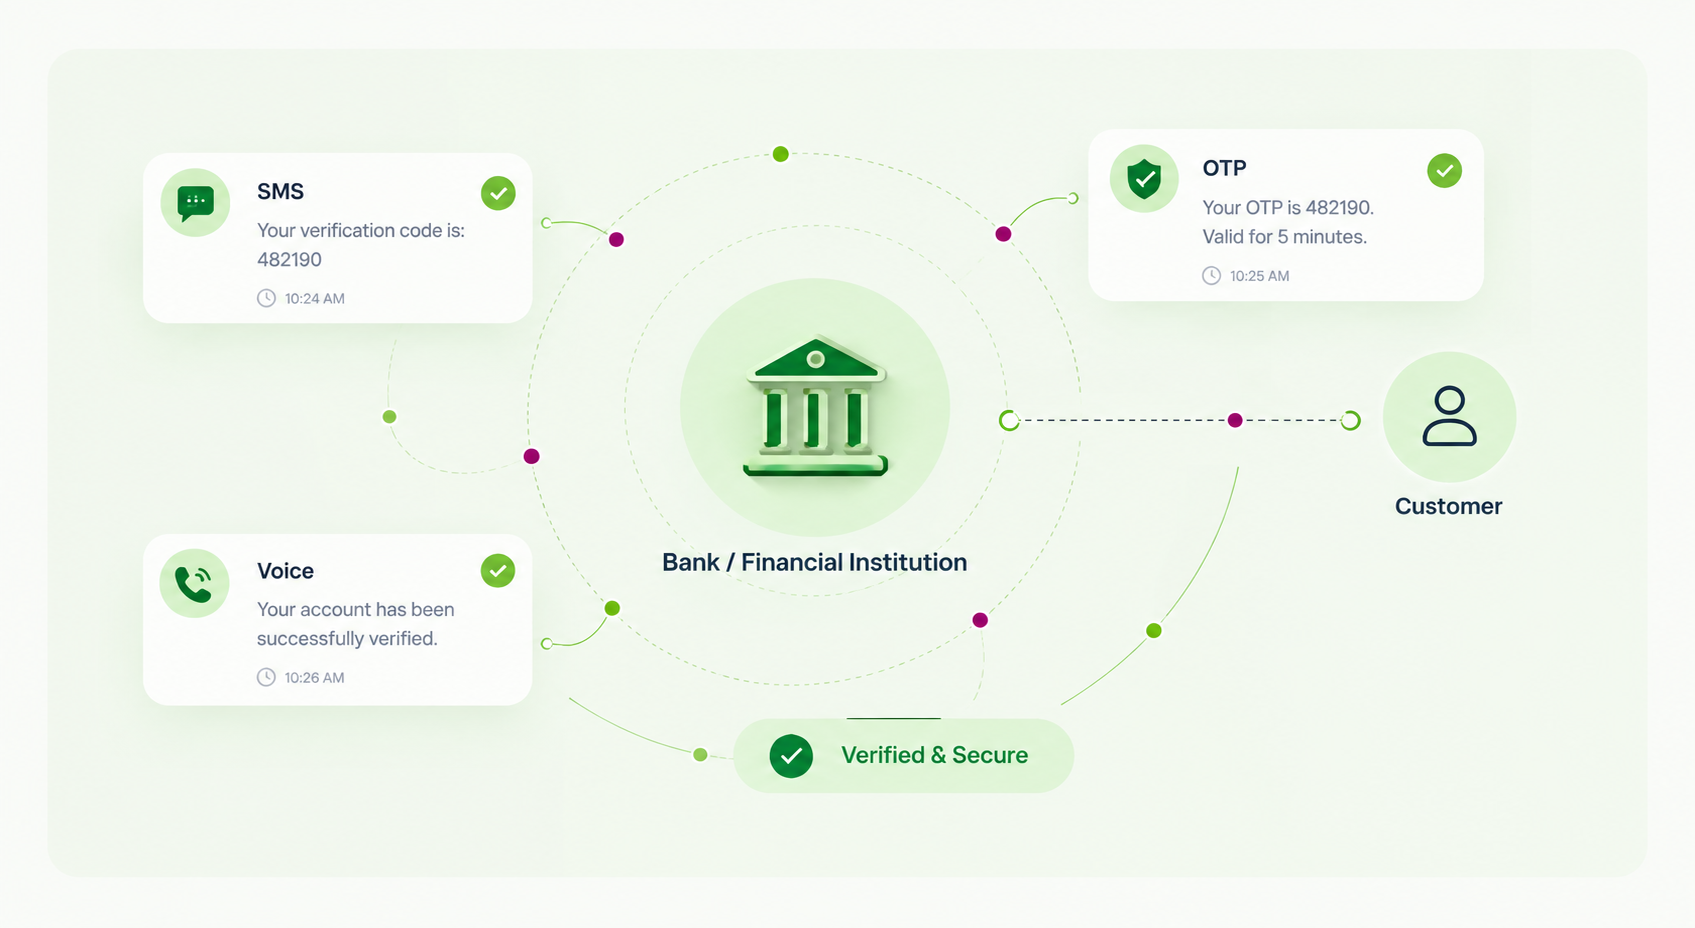
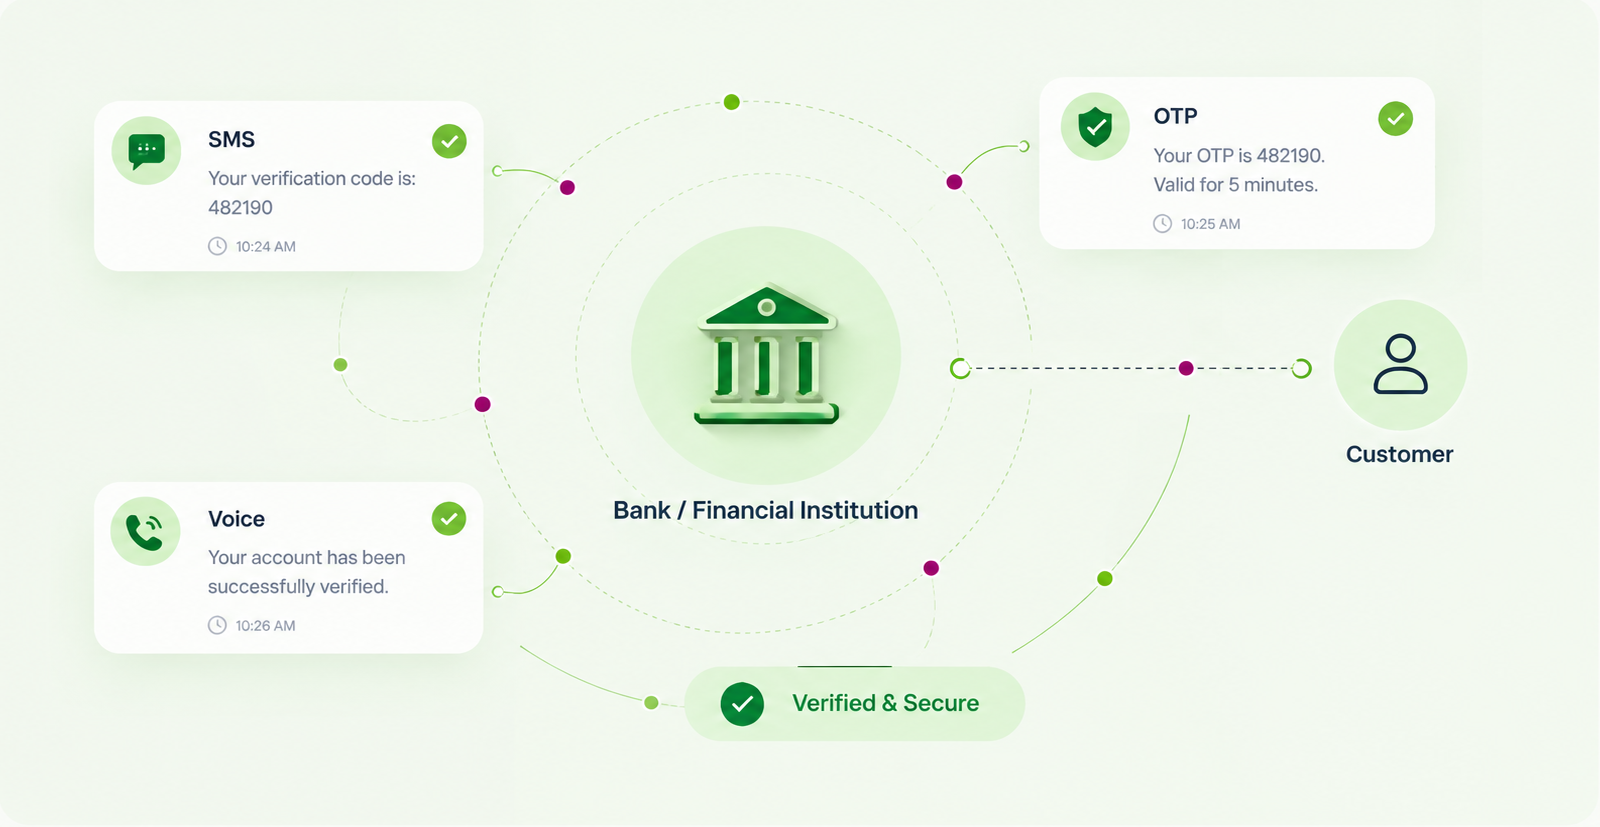
Home is Done

diff --git a/src/components/IndustryExpertise.tsx b/src/components/IndustryExpertise.tsx
@@ -1,7 +1,7 @@
 import React, { useState } from "react";
 import {
   Building2,
-  HeartPulse,
+  BriefcaseMedical,
   ShoppingCart,
   GraduationCap,
   Compass,
@@ -16,10 +16,10 @@ import travelImg from "../assets/travel.png";
 
 interface IndustryItem {
   id: string;
-  name: string;
+  name: string; // tab label
   icon: React.ReactNode;
   image: string;
-  title: string;
+  title: string; // card heading
   description: string;
 }
 
@@ -27,25 +27,25 @@ const industries: IndustryItem[] = [
   {
     id: "banking",
     name: "Banking",
-    icon: <Building2 className="w-5 h-5" />,
+    icon: <Building2 className="w-[22px] h-[22px]" strokeWidth={1.75} />,
     image: financialImg,
-    title: "Banking & Financial Services",
+    title: "Banking and Financial Services",
     description:
-      "Utilize Tier-1 SMS and Voice infrastructure for high-security OTP authentication, real-time transaction alerts, and fraud prevention.",
+      "Utilize Transactional SMS and OTP SMS Service solutions for secure customer authentication, payment alerts, and account notifications.",
   },
   {
     id: "healthcare",
     name: "Healthcare",
-    icon: <HeartPulse className="w-5 h-5" />,
+    icon: <BriefcaseMedical className="w-[22px] h-[22px]" strokeWidth={1.75} />,
     image: healthcareImg,
-    title: "Healthcare Communications",
+    title: "Healthcare",
     description:
       "Send critical patient appointment reminders, prescription updates, and healthcare notifications with enterprise reliability.",
   },
   {
     id: "ecommerce",
     name: "E-Commerce and Retail",
-    icon: <ShoppingCart className="w-5 h-5" />,
+    icon: <ShoppingCart className="w-[22px] h-[22px]" strokeWidth={1.75} />,
     image: ecommerceImg,
     title: "E-Commerce and Retail",
     description:
@@ -54,16 +54,16 @@ const industries: IndustryItem[] = [
   {
     id: "education",
     name: "Education",
-    icon: <GraduationCap className="w-5 h-5" />,
+    icon: <GraduationCap className="w-[22px] h-[22px]" strokeWidth={1.75} />,
     image: educationImg,
-    title: "Education & Learning",
+    title: "Education",
     description:
       "Keep students and parents informed with admission alerts, campus updates, attendance notices, and exam results across channels.",
   },
   {
     id: "travel",
     name: "Travel and Hospitality",
-    icon: <Compass className="w-5 h-5" />,
+    icon: <Compass className="w-[22px] h-[22px]" strokeWidth={1.75} />,
     image: travelImg,
     title: "Travel and Hospitality",
     description:
@@ -71,54 +71,66 @@ const industries: IndustryItem[] = [
   },
 ];
 
-export const IndustryExpertise: React.FC = () => {
-  const [activeId, setActiveId] = useState<string>("ecommerce");
+/**
+ * Deck geometry (by distance from the active card).
+ * Same width for all cards; back cards are shorter and shifted sideways,
+ * so they peek out from both sides of the centre card.
+ */
+const LEVELS = [
+  { x: 0, h: 575, overlay: 0, z: 30 }, // active
+  { x: 108, h: 435, overlay: 0.14, z: 20 }, // 1 step away
+  { x: 180, h: 318, overlay: 0.24, z: 10 }, // 2 steps away
+];
 
+export const IndustryExpertise: React.FC = () => {
+  const [activeId, setActiveId] = useState<string>("banking");
+
+  const n = industries.length;
   const activeIndex = industries.findIndex((item) => item.id === activeId);
-  const activeIndustry = industries[activeIndex] || industries[2];
+
+  // circular offset in range -2..2
+  const getOffset = (idx: number) => ((idx - activeIndex + n + 2) % n) - 2;
 
   return (
-    <section className="w-full bg-white py-16 lg:py-24 px-2 sm:px-4">
-      <div className="max-w-[1440px] mx-auto space-y-10 lg:space-y-14">
-        
+    <section className="w-full bg-white py-14 lg:py-20 px-2 sm:px-4 overflow-hidden">
+      <div className="max-w-[1440px] mx-auto space-y-12 lg:space-y-16">
         {/* Section Header */}
         <div className="max-w-3xl space-y-3">
           <div className="flex items-center gap-2">
-            <span className="w-5 h-[2px] bg-[#698a22]"></span>
-            <span className="text-[12px] sm:text-[13px] font-bold tracking-wider text-[#698a22] uppercase">
-              INDUSTRY EXPERTISE
+            <span className="w-5 h-[1.5px] bg-[#5f8a1a]" />
+            <span className="text-[12.5px] font-semibold tracking-wide text-[#5f8a1a] uppercase">
+              Industry Expertise
             </span>
           </div>
 
-          <h2 className="text-3xl sm:text-4xl lg:text-[42px] font-bold text-[#102038] tracking-tight leading-[1.15]">
+          <h2 className="text-[30px] sm:text-[36px] lg:text-[38px] font-bold text-[#12223b] tracking-tight leading-[1.2]">
             Communication Solutions Built <br className="hidden sm:inline" />
             For Every Industry
           </h2>
 
-          <p className="text-[15px] sm:text-[16px] text-[#556578] leading-relaxed max-w-2xl">
+          <p className="text-[15px] sm:text-[17px] text-[#5b6878] leading-relaxed max-w-[520px]">
             Connect, engage and communicate with customers through reliable
             voice, messaging and omnichannel solutions.
           </p>
         </div>
 
-        {/* 2-Column Grid Layout */}
-        <div className="grid grid-cols-1 lg:grid-cols-12 gap-8 lg:gap-12 items-center">
-          
-          {/* Left Column: Industry Tabs (5 cols) */}
-          <div className="lg:col-span-4 space-y-3">
+        {/* 2-Column Layout */}
+        <div className="grid grid-cols-1 lg:grid-cols-[380px_1fr] gap-10 lg:gap-14 items-center">
+          {/* Left: Large Tabs */}
+          <div className="flex flex-col gap-4 lg:gap-5 w-full lg:w-[380px]">
             {industries.map((item) => {
               const isActive = item.id === activeId;
               return (
                 <button
                   key={item.id}
                   onClick={() => setActiveId(item.id)}
-                  className={`w-full flex items-center justify-between px-6 py-4 rounded-full text-[15px] font-medium transition-all duration-200 cursor-pointer ${
+                  className={`w-full flex items-center justify-between pl-7 pr-6 h-[58px] sm:h-[62px] rounded-full text-[16.5px] sm:text-[17.5px] font-medium transition-all duration-200 cursor-pointer border ${
                     isActive
-                      ? "bg-[#102038] text-white ring-1.5 ring-[#739b20] shadow-lg shadow-slate-900/10"
-                      : "bg-white text-[#1e2d42] border border-[#e2e8df] hover:bg-[#f6faf4] hover:border-[#ccd9c7]"
+                      ? "bg-[#102038] text-white border-[#739b20] ring-1.5 ring-[#739b20] shadow-md shadow-slate-900/10"
+                      : "bg-white text-[#1e2d42] border-[#d3d9de] hover:border-[#b6c2b0] hover:bg-[#f7faf5]"
                   }`}
                 >
-                  <div className="flex items-center gap-3.5">
+                  <div className="flex items-center gap-4">
                     <span
                       className={isActive ? "text-[#84cc16]" : "text-slate-500"}
                     >
@@ -127,9 +139,9 @@ export const IndustryExpertise: React.FC = () => {
                     <span>{item.name}</span>
                   </div>
                   <ChevronRight
-                    className={`w-4 h-4 transition-transform ${
+                    className={`w-5 h-5 transition-transform ${
                       isActive
-                        ? "text-[#84cc16] translate-x-1"
+                        ? "text-[#84cc16] translate-x-0.5"
                         : "text-slate-400"
                     }`}
                   />
@@ -138,89 +150,76 @@ export const IndustryExpertise: React.FC = () => {
             })}
           </div>
 
-          {/* Right Column: Layered Stacked 3D Cards Showcase (8 cols) */}
-          <div className="lg:col-span-8 relative flex items-center justify-center min-h-[460px] lg:min-h-[520px] overflow-hidden py-4">
-            
-            {/* Background stack layer cards for visual depth */}
-            <div className="absolute inset-0 flex items-center justify-center pointer-events-none">
-              {industries.map((item, idx) => {
-                const offset = idx - activeIndex;
-                if (offset === 0) return null; // Front card rendered separately
+          {/* Right: Card deck */}
+          <div className="relative flex items-center justify-center h-[590px] lg:h-[620px] select-none">
+            {industries.map((item, idx) => {
+              const offset = getOffset(idx);
+              const dist = Math.abs(offset);
+              const level = LEVELS[dist];
+              const isCenter = dist === 0;
+              const dir = offset < 0 ? -1 : 1;
 
-                // Calculate horizontal translate and scale for the stack
-                const translateX = offset * 110;
-                const scale = 0.9 - Math.abs(offset) * 0.05;
-                const opacity = 0.45 - Math.abs(offset) * 0.12;
-                const zIndex = 10 - Math.abs(offset);
+              return (
+                <div
+                  key={item.id}
+                  onClick={() => setActiveId(item.id)}
+                  style={
+                    {
+                      transform: `translateX(${dir * level.x}px)`,
+                      zIndex: level.z,
+                      ["--h" as string]: `${level.h}px`,
+                      ["--ih" as string]: "57%",
+                    } as React.CSSProperties
+                  }
+                  className={`absolute w-[min(570px,100%)] h-auto md:h-[var(--h)] rounded-[30px] overflow-hidden bg-white flex flex-col transition-all duration-500 ease-out cursor-pointer ${
+                    isCenter
+                      ? "block shadow-[0_20px_60px_-10px_rgba(15,23,42,0.25)] border border-gray-100"
+                      : "hidden md:flex border border-slate-200/70"
+                  }`}
+                >
+                  {/* Illustration */}
+                  <div className="w-full shrink-0 h-[255px] md:h-[var(--ih)] bg-gradient-to-b bg-[#66dd0b] overflow-hidden flex items-center justify-center">
+                    <img
+                      src={item.image}
+                      alt={item.title}
+                      draggable={false}
+                      className="w-full h-full object-fill object-center"
+                    />
+                  </div>
 
-                if (Math.abs(offset) > 2) return null;
+                  {/* Text + CTA */}
+                  <div className="bg-white flex-1 px-8 pt-7 pb-8 text-center space-y-3.5 overflow-hidden flex flex-col justify-center">
+                    <h3 className="text-[25px] md:text-[29px] font-semibold text-[#12223b] tracking-tight leading-tight">
+                      {item.title}
+                    </h3>
 
-                return (
-                  <div
-                    key={item.id}
-                    style={{
-                      transform: `translateX(${translateX}px) scale(${scale})`,
-                      opacity: opacity > 0 ? opacity : 0,
-                      zIndex,
-                    }}
-                    className="absolute w-full max-w-[380px] sm:max-w-[420px] bg-white rounded-[32px] border border-slate-200/80 shadow-md p-6 pointer-events-none transition-all duration-500 blur-[0.5px]"
-                  >
-                    <div className="aspect-[4/3] rounded-2xl overflow-hidden bg-[#eef5eb]">
-                      <img
-                        src={item.image}
-                        alt={item.name}
-                        className="w-full h-full object-contain p-2 opacity-80"
-                      />
-                    </div>
-                    <div className="pt-4 text-center">
-                      <h4 className="font-bold text-slate-800 text-lg">
-                        {item.title}
-                      </h4>
+                    <p className="text-[15px] md:text-[16px] text-[#5b6878] leading-[1.55] max-w-[460px] mx-auto">
+                      {item.description}
+                    </p>
+
+                    <div className="pt-2">
+                      <a
+                        href="#contact"
+                        onClick={(e) => {
+                          if (!isCenter) e.preventDefault();
+                        }}
+                        className="inline-flex items-center justify-center px-14 py-3 rounded-full text-[15.5px] font-medium text-white bg-[#8b1a5e] hover:bg-[#751450] shadow-md shadow-[#8b1a5e]/25 transition duration-150 active:scale-[0.98]"
+                      >
+                        Contact Us
+                      </a>
                     </div>
                   </div>
-                );
-              })}
-            </div>
 
-            {/* Active Front Card */}
-            <div className="relative z-20 w-full max-w-[440px] sm:max-w-[500px] bg-white rounded-[32px] border border-gray-100 shadow-2xl shadow-slate-200/70 p-6 sm:p-8 space-y-6 text-center transition-all duration-300">
-              
-              {/* Card Illustration Area */}
-              <div className="aspect-[16/11] rounded-2xl overflow-hidden bg-[#eff4eb] flex items-center justify-center p-3 border border-[#e2ebdE]">
-                <img
-                  src={activeIndustry.image}
-                  alt={activeIndustry.title}
-                  className="w-full h-full object-contain drop-shadow-sm transition-all duration-300"
-                />
-              </div>
-
-              {/* Card Text Content */}
-              <div className="space-y-3 px-2">
-                <h3 className="text-2xl sm:text-[26px] font-bold text-[#102038] tracking-tight">
-                  {activeIndustry.title}
-                </h3>
-
-                <p className="text-[14px] sm:text-[15px] text-[#556578] leading-relaxed max-w-md mx-auto">
-                  {activeIndustry.description}
-                </p>
-              </div>
-
-              {/* Contact Us CTA Button */}
-              <div className="pt-2">
-                <a
-                  href="#contact"
-                  className="inline-flex items-center justify-center px-8 py-3 rounded-full bg-[#83184d] hover:bg-[#701240] text-white text-[15px] font-medium transition duration-150 shadow-md shadow-[#83184d]/25 active:scale-[0.98]"
-                >
-                  Contact Us
-                </a>
-              </div>
-
-            </div>
-
+                  {/* Grey overlay for back cards */}
+                  <div
+                    className="absolute inset-0 pointer-events-none transition-opacity duration-500 bg-[#5d6b5d]"
+                    style={{ opacity: level.overlay }}
+                  />
+                </div>
+              );
+            })}
           </div>
-
         </div>
-
       </div>
     </section>
   );
